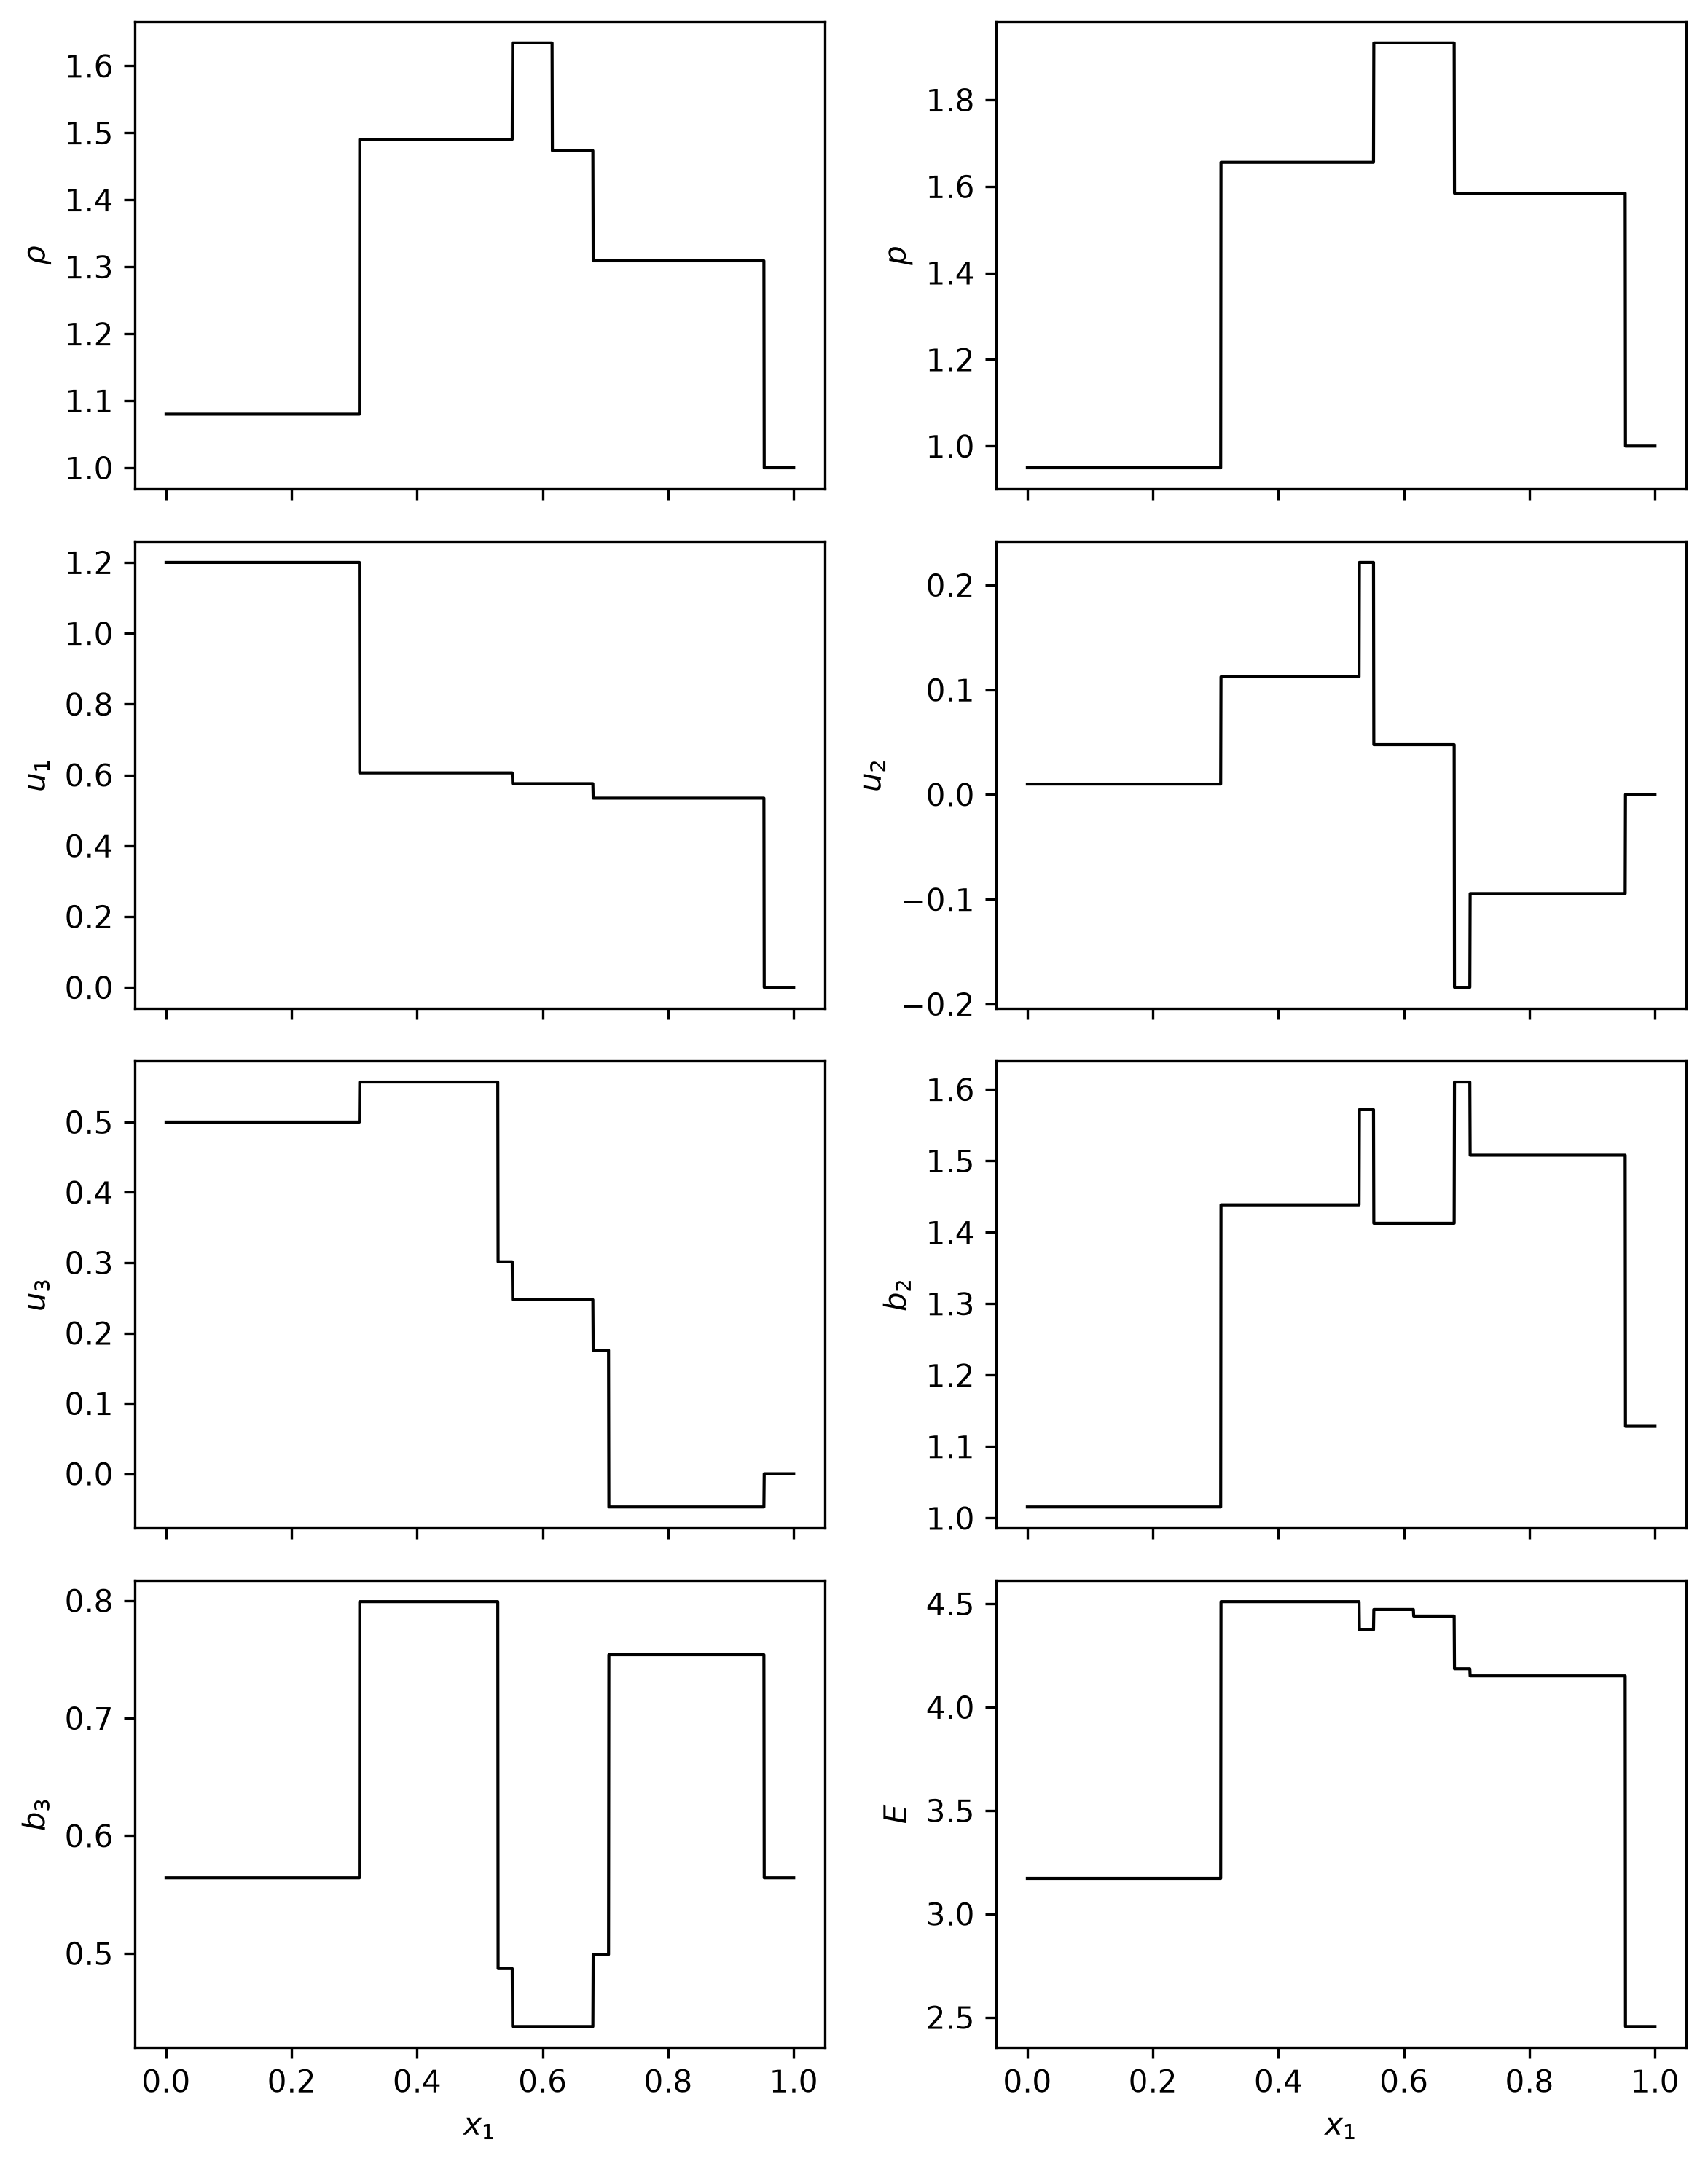
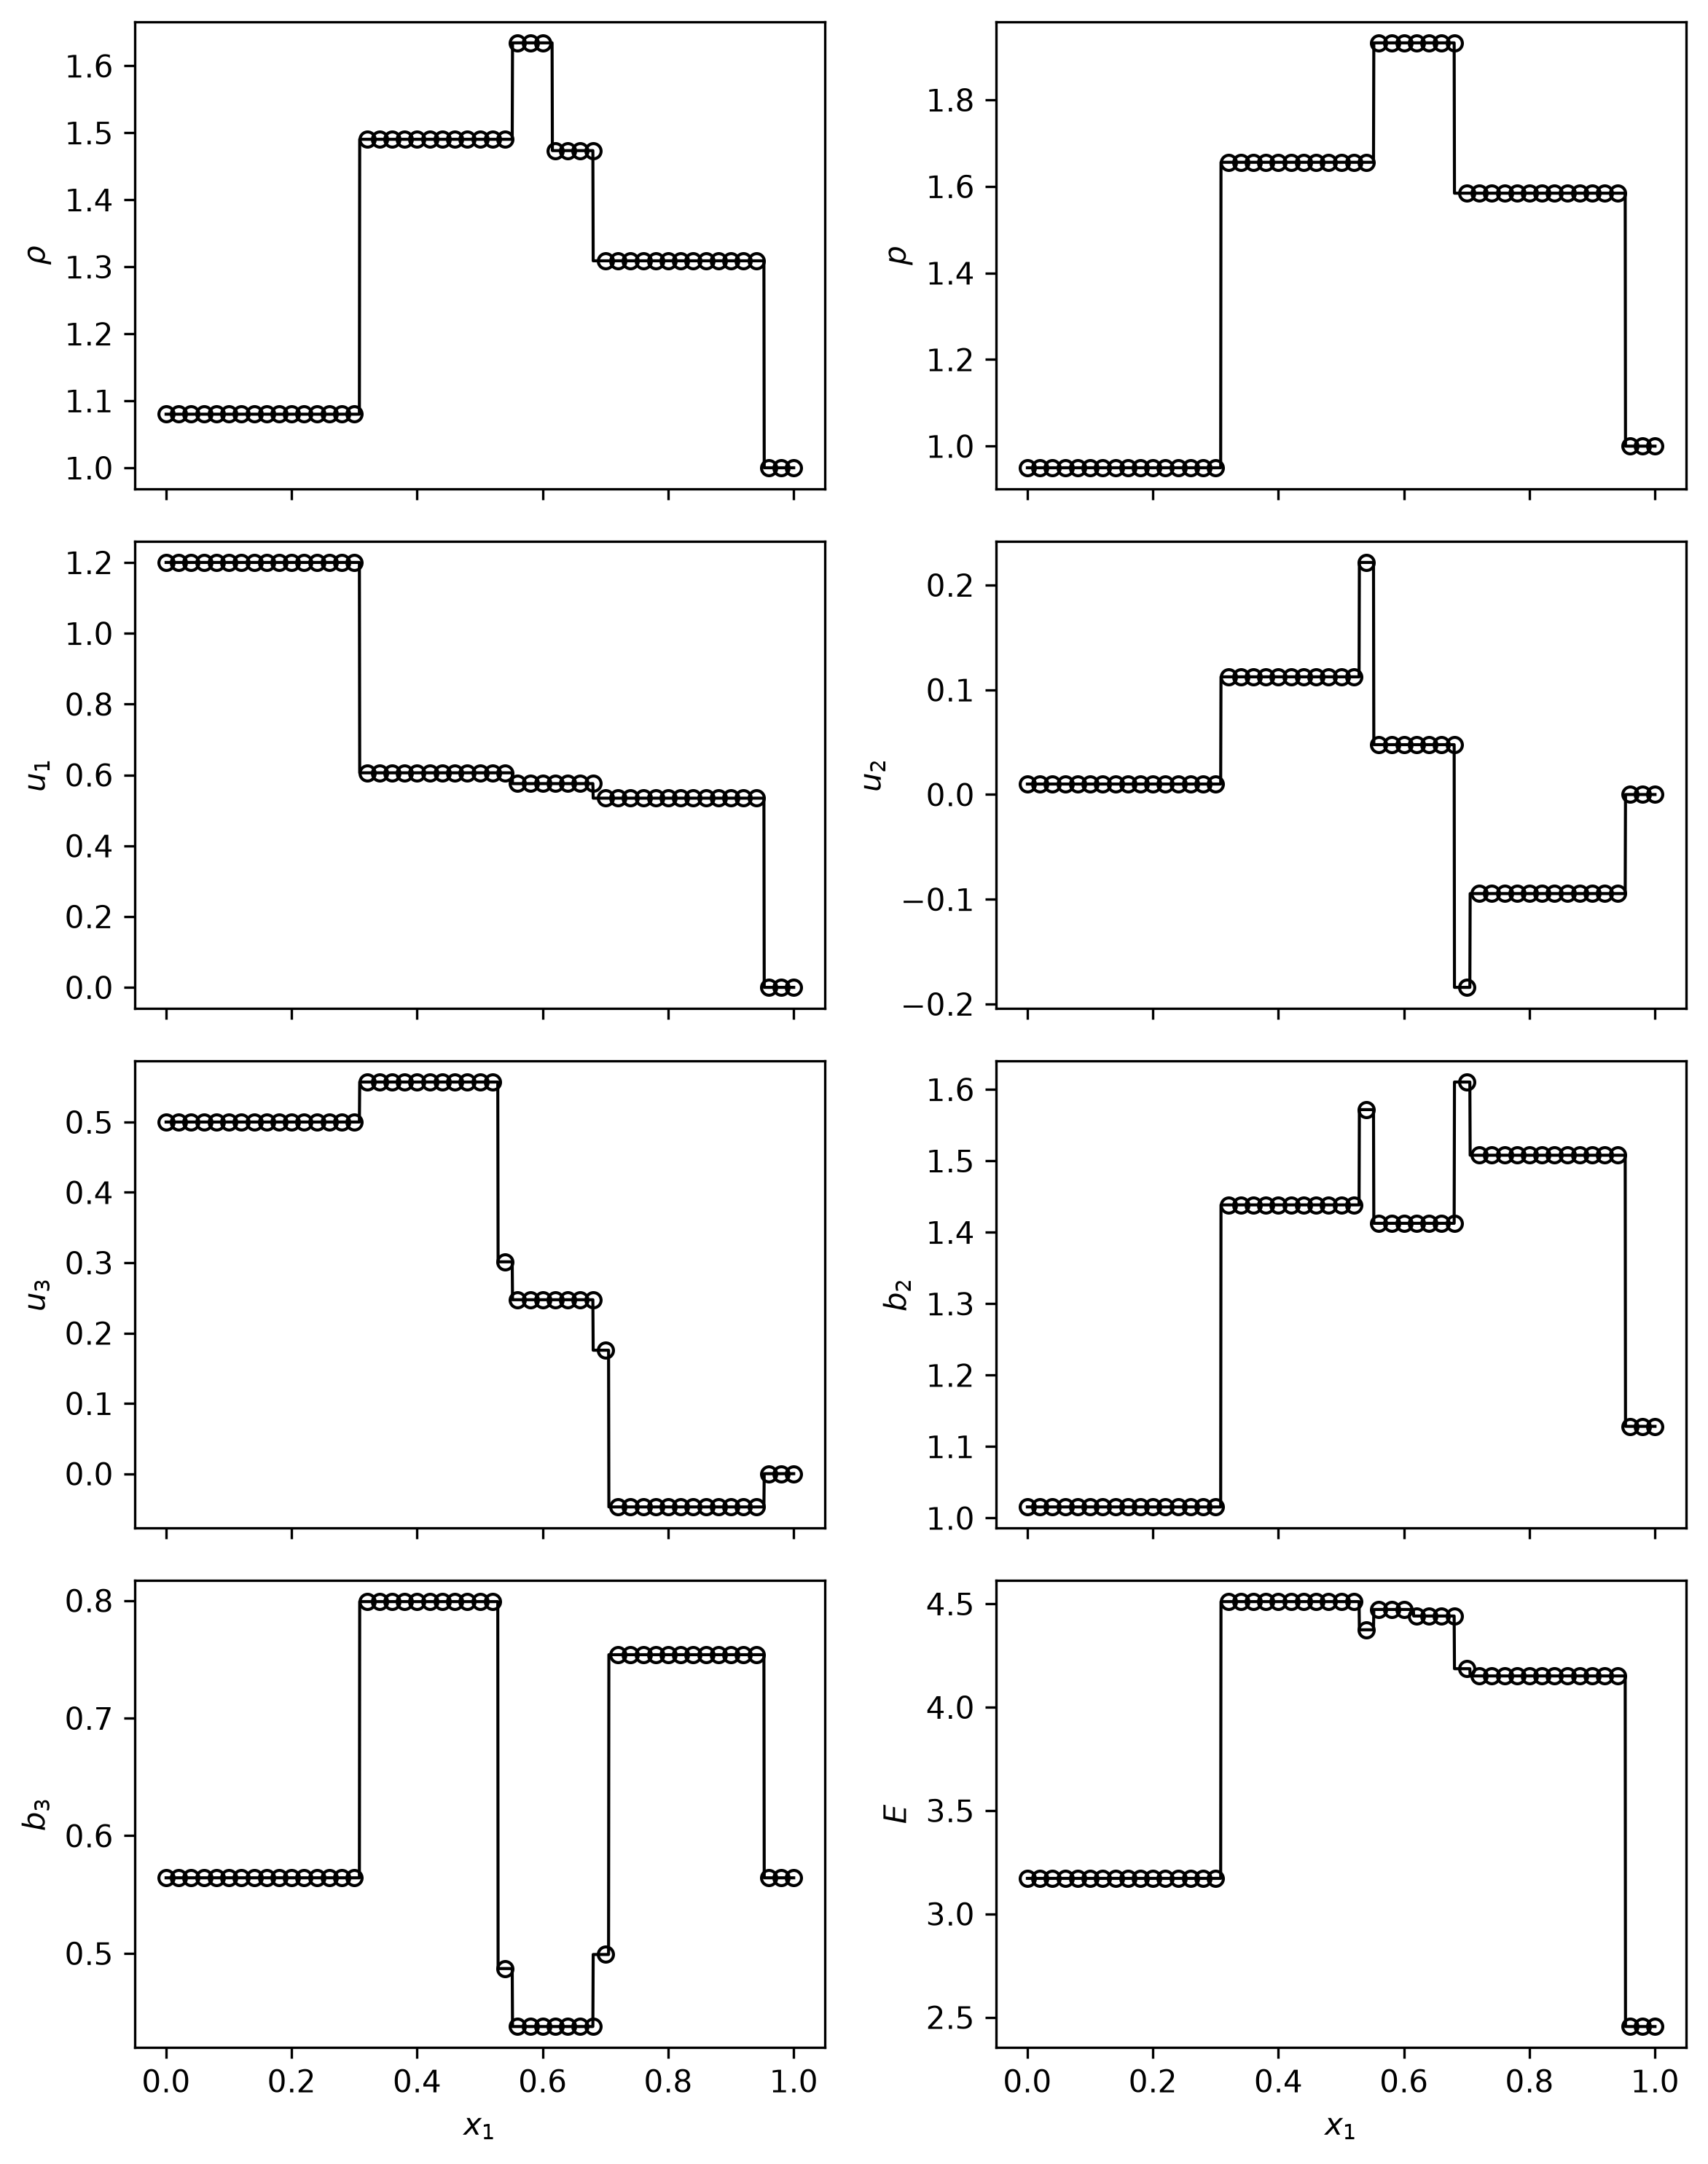
fix-fn(demo_ryu_jones_2a): plot a high-res reference line vs a low-res sampled overlay.

diff --git a/demos/demo_ryu_jones_2a.py b/demos/demo_ryu_jones_2a.py
@@ -24,6 +24,39 @@ MAGNETIC_FIELD_NORMAL = 0.5641895835477562
 GAMMA = 5.0 / 3.0
 TIME = 0.2
 DISCONTINUITY_POSITION = 0.5
+NUM_CELLS_REFERENCE = 2001
+NUM_CELLS_SAMPLED = 51
+
+##
+## === HELPER FUNCTIONS
+##
+
+
+def compute_panels(
+    *,
+    profile: list[PrimitiveState],
+):
+    """Return `[(values, latex_label), ...]` for the 8 quantities plotted from `profile`."""
+    total_energy = numpy.array(
+        [
+            mhd_state.compute_total_energy(
+                state=state,
+                magnetic_field_normal=MAGNETIC_FIELD_NORMAL,
+                gamma=GAMMA,
+            ) for state in profile
+        ],
+    )
+    return [
+        (numpy.array([state.density for state in profile]), r"$\rho$"),
+        (numpy.array([state.pressure for state in profile]), r"$p$"),
+        (numpy.array([state.velocity_normal for state in profile]), r"$u_1$"),
+        (numpy.array([state.velocity_transverse_1 for state in profile]), r"$u_2$"),
+        (numpy.array([state.velocity_transverse_2 for state in profile]), r"$u_3$"),
+        (numpy.array([state.magnetic_field_transverse_1 for state in profile]), r"$b_2$"),
+        (numpy.array([state.magnetic_field_transverse_2 for state in profile]), r"$b_3$"),
+        (total_energy, r"$E$"),
+    ]
+
 
 ##
 ## === PROGRAM MAIN
@@ -56,45 +89,39 @@ def main():
         magnetic_field_normal=MAGNETIC_FIELD_NORMAL,
         gamma=GAMMA,
     )
-    print("Sampling the profile...")
-    positions = numpy.linspace(0.0, 1.0, 2001)
-    profile = sample_profile(
+    print("Sampling the reference profile...")
+    positions_reference = numpy.linspace(0.0, 1.0, NUM_CELLS_REFERENCE)
+    profile_reference = sample_profile(
         riemann_solution=solution,
-        positions=positions,
+        positions=positions_reference,
         time=TIME,
         discontinuity_position=DISCONTINUITY_POSITION,
     )
-    density = numpy.array([state.density for state in profile])
-    pressure = numpy.array([state.pressure for state in profile])
-    velocity_normal = numpy.array([state.velocity_normal for state in profile])
-    velocity_transverse_1 = numpy.array([state.velocity_transverse_1 for state in profile])
-    velocity_transverse_2 = numpy.array([state.velocity_transverse_2 for state in profile])
-    magnetic_field_transverse_1 = numpy.array([state.magnetic_field_transverse_1 for state in profile])
-    magnetic_field_transverse_2 = numpy.array([state.magnetic_field_transverse_2 for state in profile])
-    total_energy = numpy.array(
-        [
-            mhd_state.compute_total_energy(
-                state=state,
-                magnetic_field_normal=MAGNETIC_FIELD_NORMAL,
-                gamma=GAMMA,
-            ) for state in profile
-        ],
+    panels_reference = compute_panels(profile=profile_reference)
+
+    print("Sampling the low-resolution profile...")
+    positions_sampled = numpy.linspace(0.0, 1.0, NUM_CELLS_SAMPLED)
+    profile_sampled = sample_profile(
+        riemann_solution=solution,
+        positions=positions_sampled,
+        time=TIME,
+        discontinuity_position=DISCONTINUITY_POSITION,
     )
+    panels_sampled = compute_panels(profile=profile_sampled)
 
     print("Plotting the profile...")
     fig, axs = mpl_plot.subplots(4, 2, figsize=(8, 10), sharex=True)
-    panels = [
-        (density, r"$\rho$"),
-        (pressure, r"$p$"),
-        (velocity_normal, r"$u_1$"),
-        (velocity_transverse_1, r"$u_2$"),
-        (velocity_transverse_2, r"$u_3$"),
-        (magnetic_field_transverse_1, r"$b_2$"),
-        (magnetic_field_transverse_2, r"$b_3$"),
-        (total_energy, r"$E$"),
-    ]
-    for (values, label), ax in zip(panels, axs.flatten()):
-        ax.plot(positions, values, color="black", linewidth=1.0)
+    for (reference_values, label), (sampled_values, _), ax in zip(panels_reference, panels_sampled, axs.flatten()):
+        ax.plot(positions_reference, reference_values, color="black", linewidth=1.0)
+        ax.plot(
+            positions_sampled,
+            sampled_values,
+            marker="o",
+            markersize=5,
+            markerfacecolor="none",
+            markeredgecolor="black",
+            linestyle="none",
+        )
         ax.set_ylabel(label)
     axs[-1, 0].set_xlabel(r"$x_1$")
     axs[-1, 1].set_xlabel(r"$x_1$")